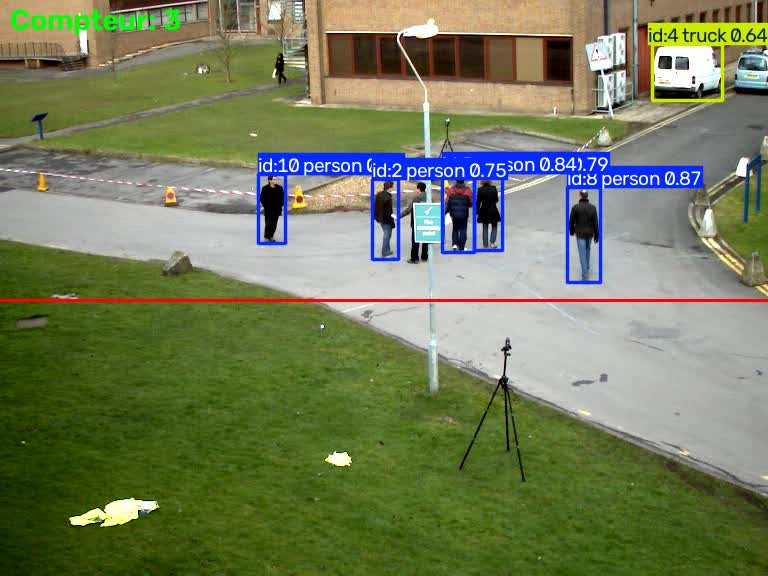
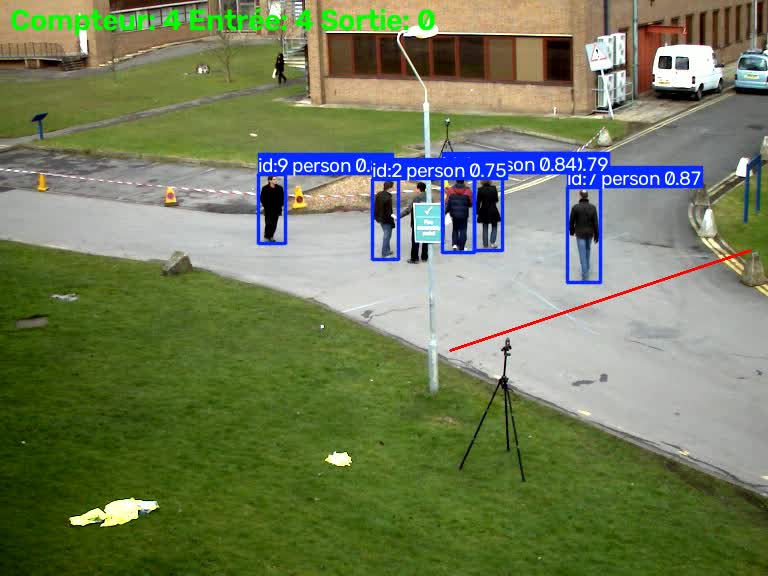
Mise à jour README + photos exemple

diff --git a/README.md b/README.md
@@ -2,19 +2,11 @@
 
 Petit projet de Computer Vision : détecter des personnes dans une vidéo, les suivre d'une frame à l'autre, et compter celles qui franchissent une ligne — avec YOLOv8 et OpenCV.
 
-## Le problème
-
-Je voulais découvrir concrètement si le Computer Vision (détection d'objets / analyse vidéo) est un domaine qui m'intéresse vraiment, en construisant un petit projet.
-
-## La solution
-
-Un pipeline complet qui part d'une vidéo brute et produit une vidéo annotée : détection des personnes avec YOLOv8, tracking pour leur donner un ID stable dans le temps, et une fonctionnalité de comptage des personnes qui franchissent une ligne virtuelle.
-
 ## Technologies utilisées
 
 - **Python 3**
 - **OpenCV** (`opencv-python`) — lecture/écriture vidéo frame par frame, dessin des annotations (boîtes, ligne, compteur)
-- **Ultralytics YOLOv8** (`yolov8n`, pré-entraîné sur COCO, 80 classes) — détection d'objets et tracking multi-objets intégré (ByteTrack)
+- **Ultralytics YOLOv8** (`yolov8n`, pré-entraîné sur COCO, 80 classes) — détection d'objets (filtrée sur la classe "personne") et tracking multi-objets intégré (ByteTrack)
 - **Git / GitHub**
 
 ## Pipeline
@@ -26,16 +18,19 @@ Vidéo (vtest.avi)
 Lecture frame par frame (OpenCV)
         │
         ▼
-Détection d'objets (YOLOv8n)
+Détection d'objets, classe "personne" uniquement (YOLOv8n, classes=[0])
         │
         ▼
 Tracking multi-objets (ByteTrack, via model.track())
         │
         ▼
-ID stable par personne + ligne de comptage
+ID stable par personne + ligne de comptage orientable (2 points A/B)
         │
         ▼
-Vidéo annotée en sortie (boîtes, IDs, compteur)
+Détection du côté (produit vectoriel) + compteur entrées/sorties
+        │
+        ▼
+Vidéo annotée en sortie (boîtes, IDs, ligne, compteur)
 ```
 
 Le projet a été construit étape par étape, chaque script ajoutant une brique au pipeline :
@@ -46,7 +41,15 @@ Le projet a été construit étape par étape, chaque script ajoutant une brique
 | `yolo_test.py` | Première détection YOLO sur une image, inspection du résultat brut |
 | `detect_video.py` | Détection YOLO sur la vidéo complète |
 | `track_video.py` | Ajout du tracking (ID stable par personne) |
-| `count_line.py` | Ajout de la ligne de comptage (fonctionnalité finale) |
+| `count_line.py` | Ligne de comptage, puis enrichi (voir ci-dessous) |
+
+## Améliorations post-MVP
+
+Corrections apportées dans `count_line.py` après la première version fonctionnelle :
+
+- **Filtrage sur la classe "personne"** (`classes=[0]`) : le tracking ne suit plus que les personnes, ce qui réduit les faux positifs sur des objets fixes du décor.
+- **Comptage directionnel** : deux compteurs séparés (entrées / sorties) au lieu d'un total unique.
+- **Ligne de comptage orientable** : remplacement de la hauteur fixe (`LINE_Y`) par une ligne définie par deux points (`LINE_A`, `LINE_B`), avec détection du côté via un produit vectoriel — suit l'angle réel d'un chemin plutôt qu'une ligne horizontale imposée.
 
 ## Comment lancer le projet
 
@@ -67,12 +70,7 @@ La vidéo annotée est générée dans `data/output_line.mp4`.
 
 ## Limites
 
-- **Modèle nano** (le plus léger/rapide de YOLOv8) : quelques faux positifs possibles sur des objets fixes du décor (confondus avec un objet mobile à faible confidence).
+- **Modèle nano** (le plus léger/rapide de YOLOv8) : reste le modèle le moins précis de la famille YOLOv8, même avec le filtrage par classe.
 - **ID switch** : quand deux personnes se croisent ou que l'une est temporairement cachée, le tracker peut lui attribuer un nouvel ID à sa réapparition — limite connue des trackers basés sur la position plutôt que sur l'apparence.
-- **Ligne de comptage horizontale à hauteur fixe** : à cause de la perspective de la caméra, les personnes qui arrivent par les côtés de l'image peuvent traverser la zone sans être comptées. Une ligne suivant l'angle réel du chemin serait plus précise, mais dépasse le périmètre choisi pour ce projet.
-- Traitement de la vidéo en différé (pas en temps réel).
-
-
-## Remerciements
-
-Vidéo de test `vtest.avi` fournie par le dépôt officiel OpenCV (samples).
+- **Calibration manuelle de la ligne** : les coordonnées de `LINE_A`/`LINE_B` sont choisies à l'œil pour cette vidéo précise ; changer de caméra ou d'angle nécessite de les redéfinir à la main.
+- Traitement de la vidéo en différé (pas en temps réel) — une version webcam/flux live a été explorée mais pas encore aboutie.
